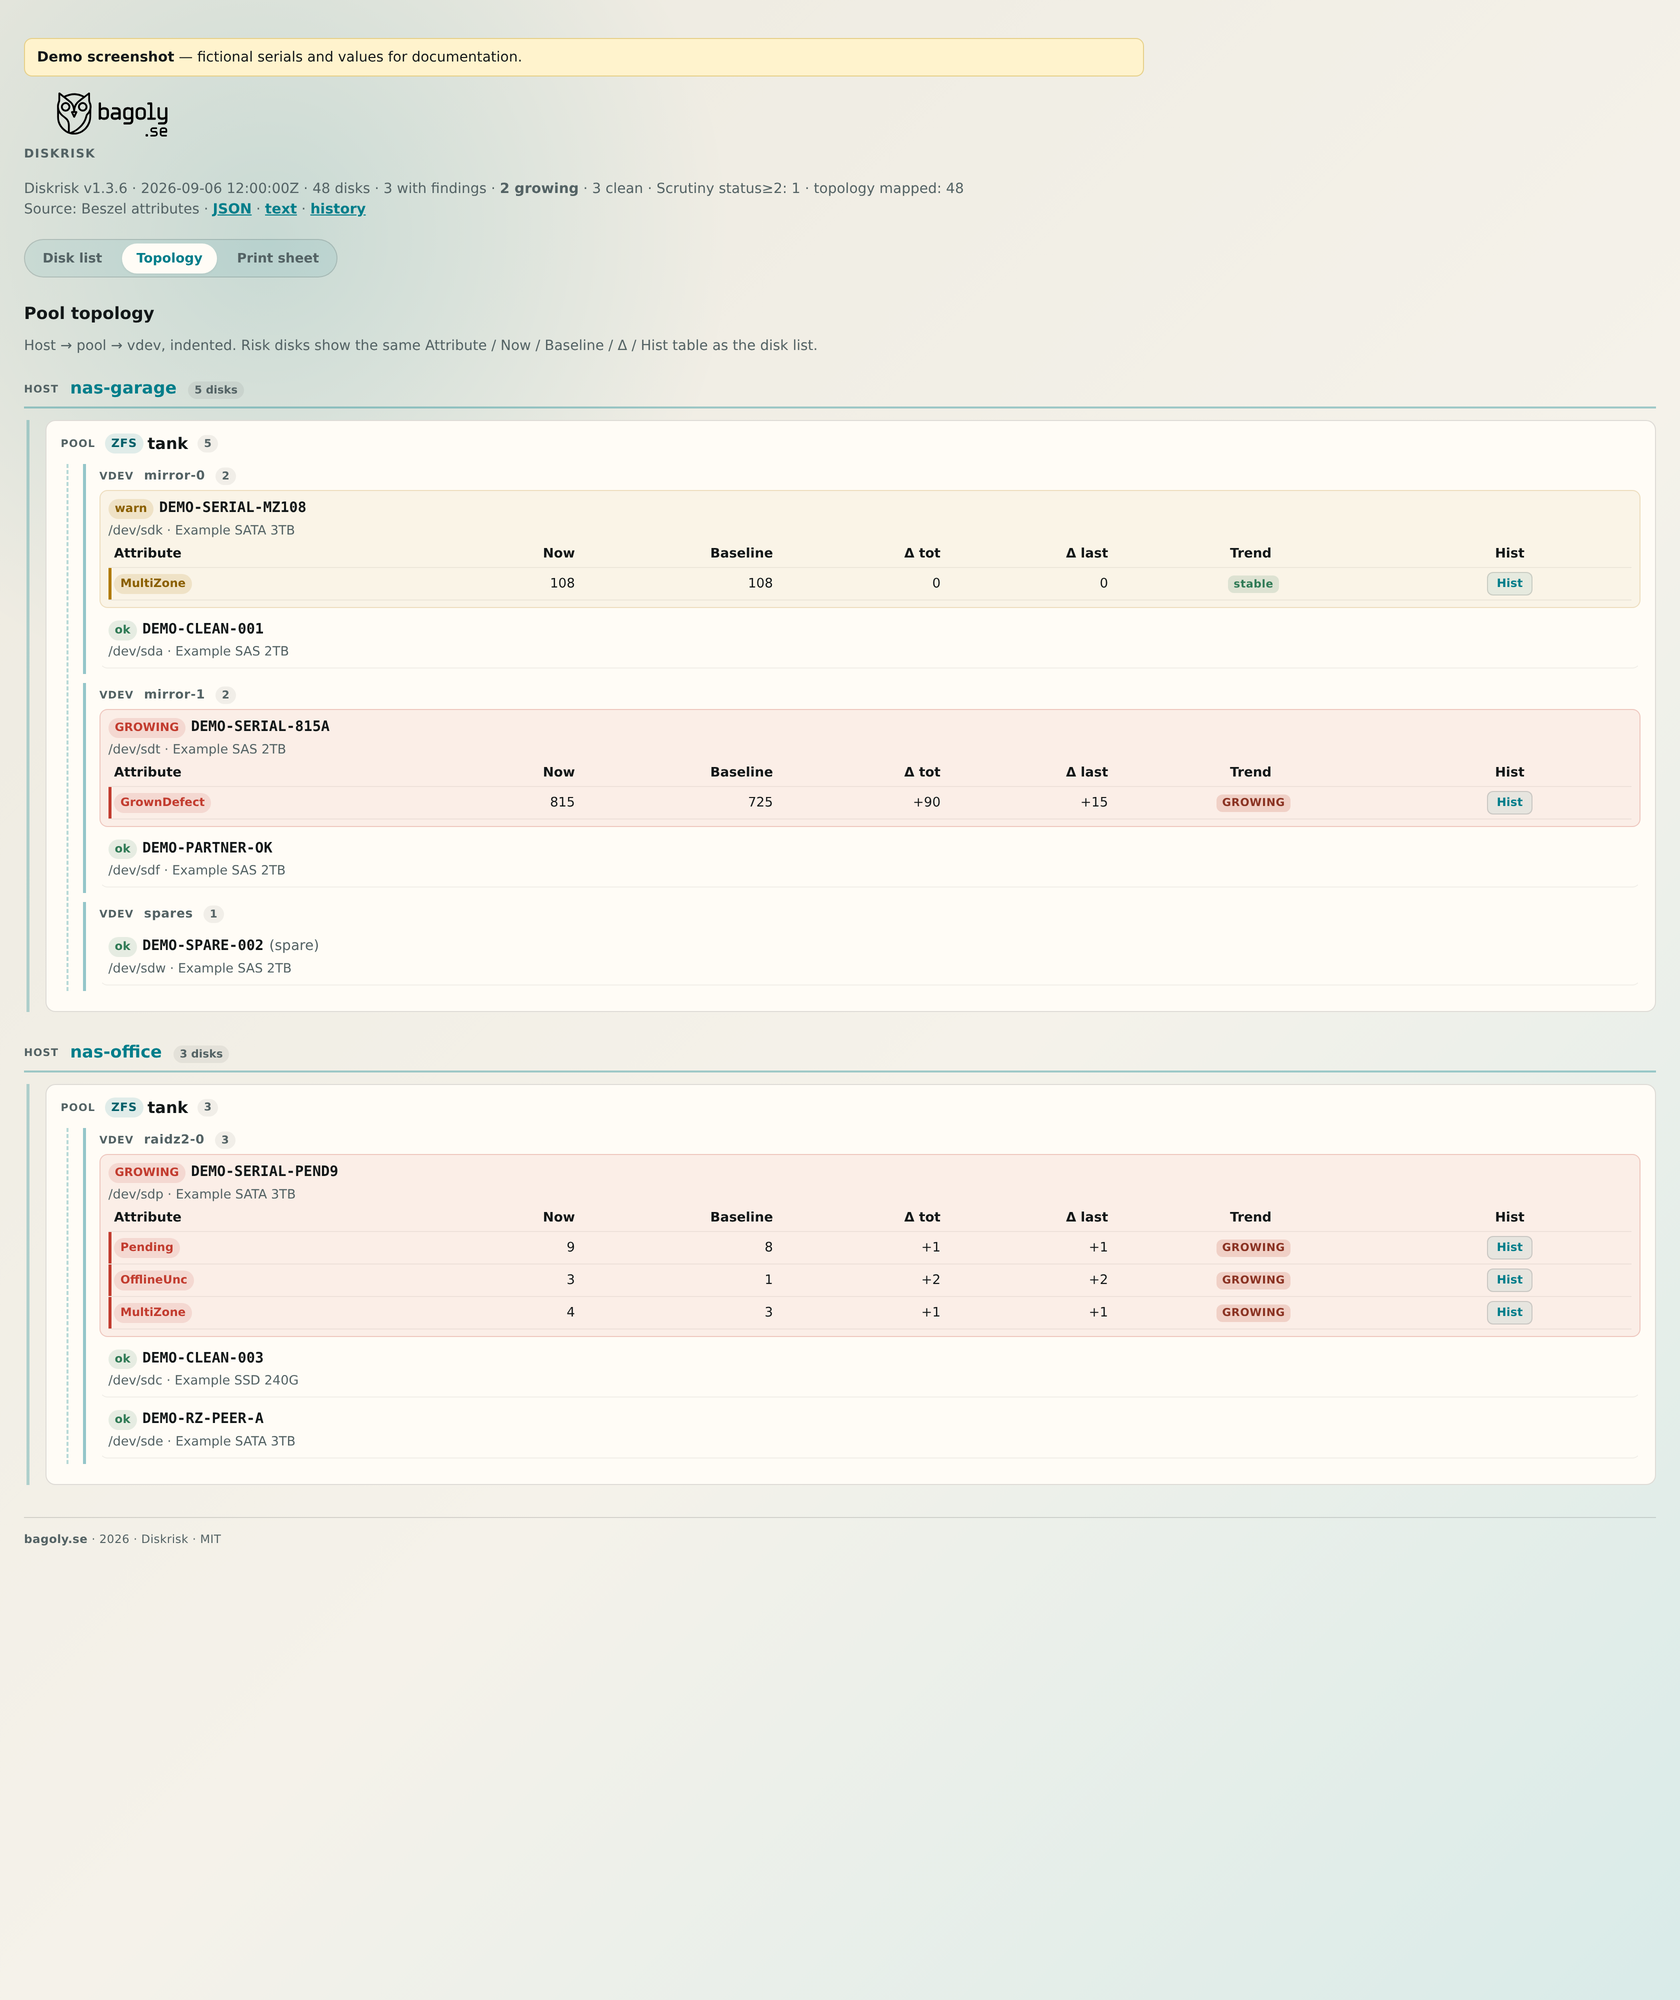
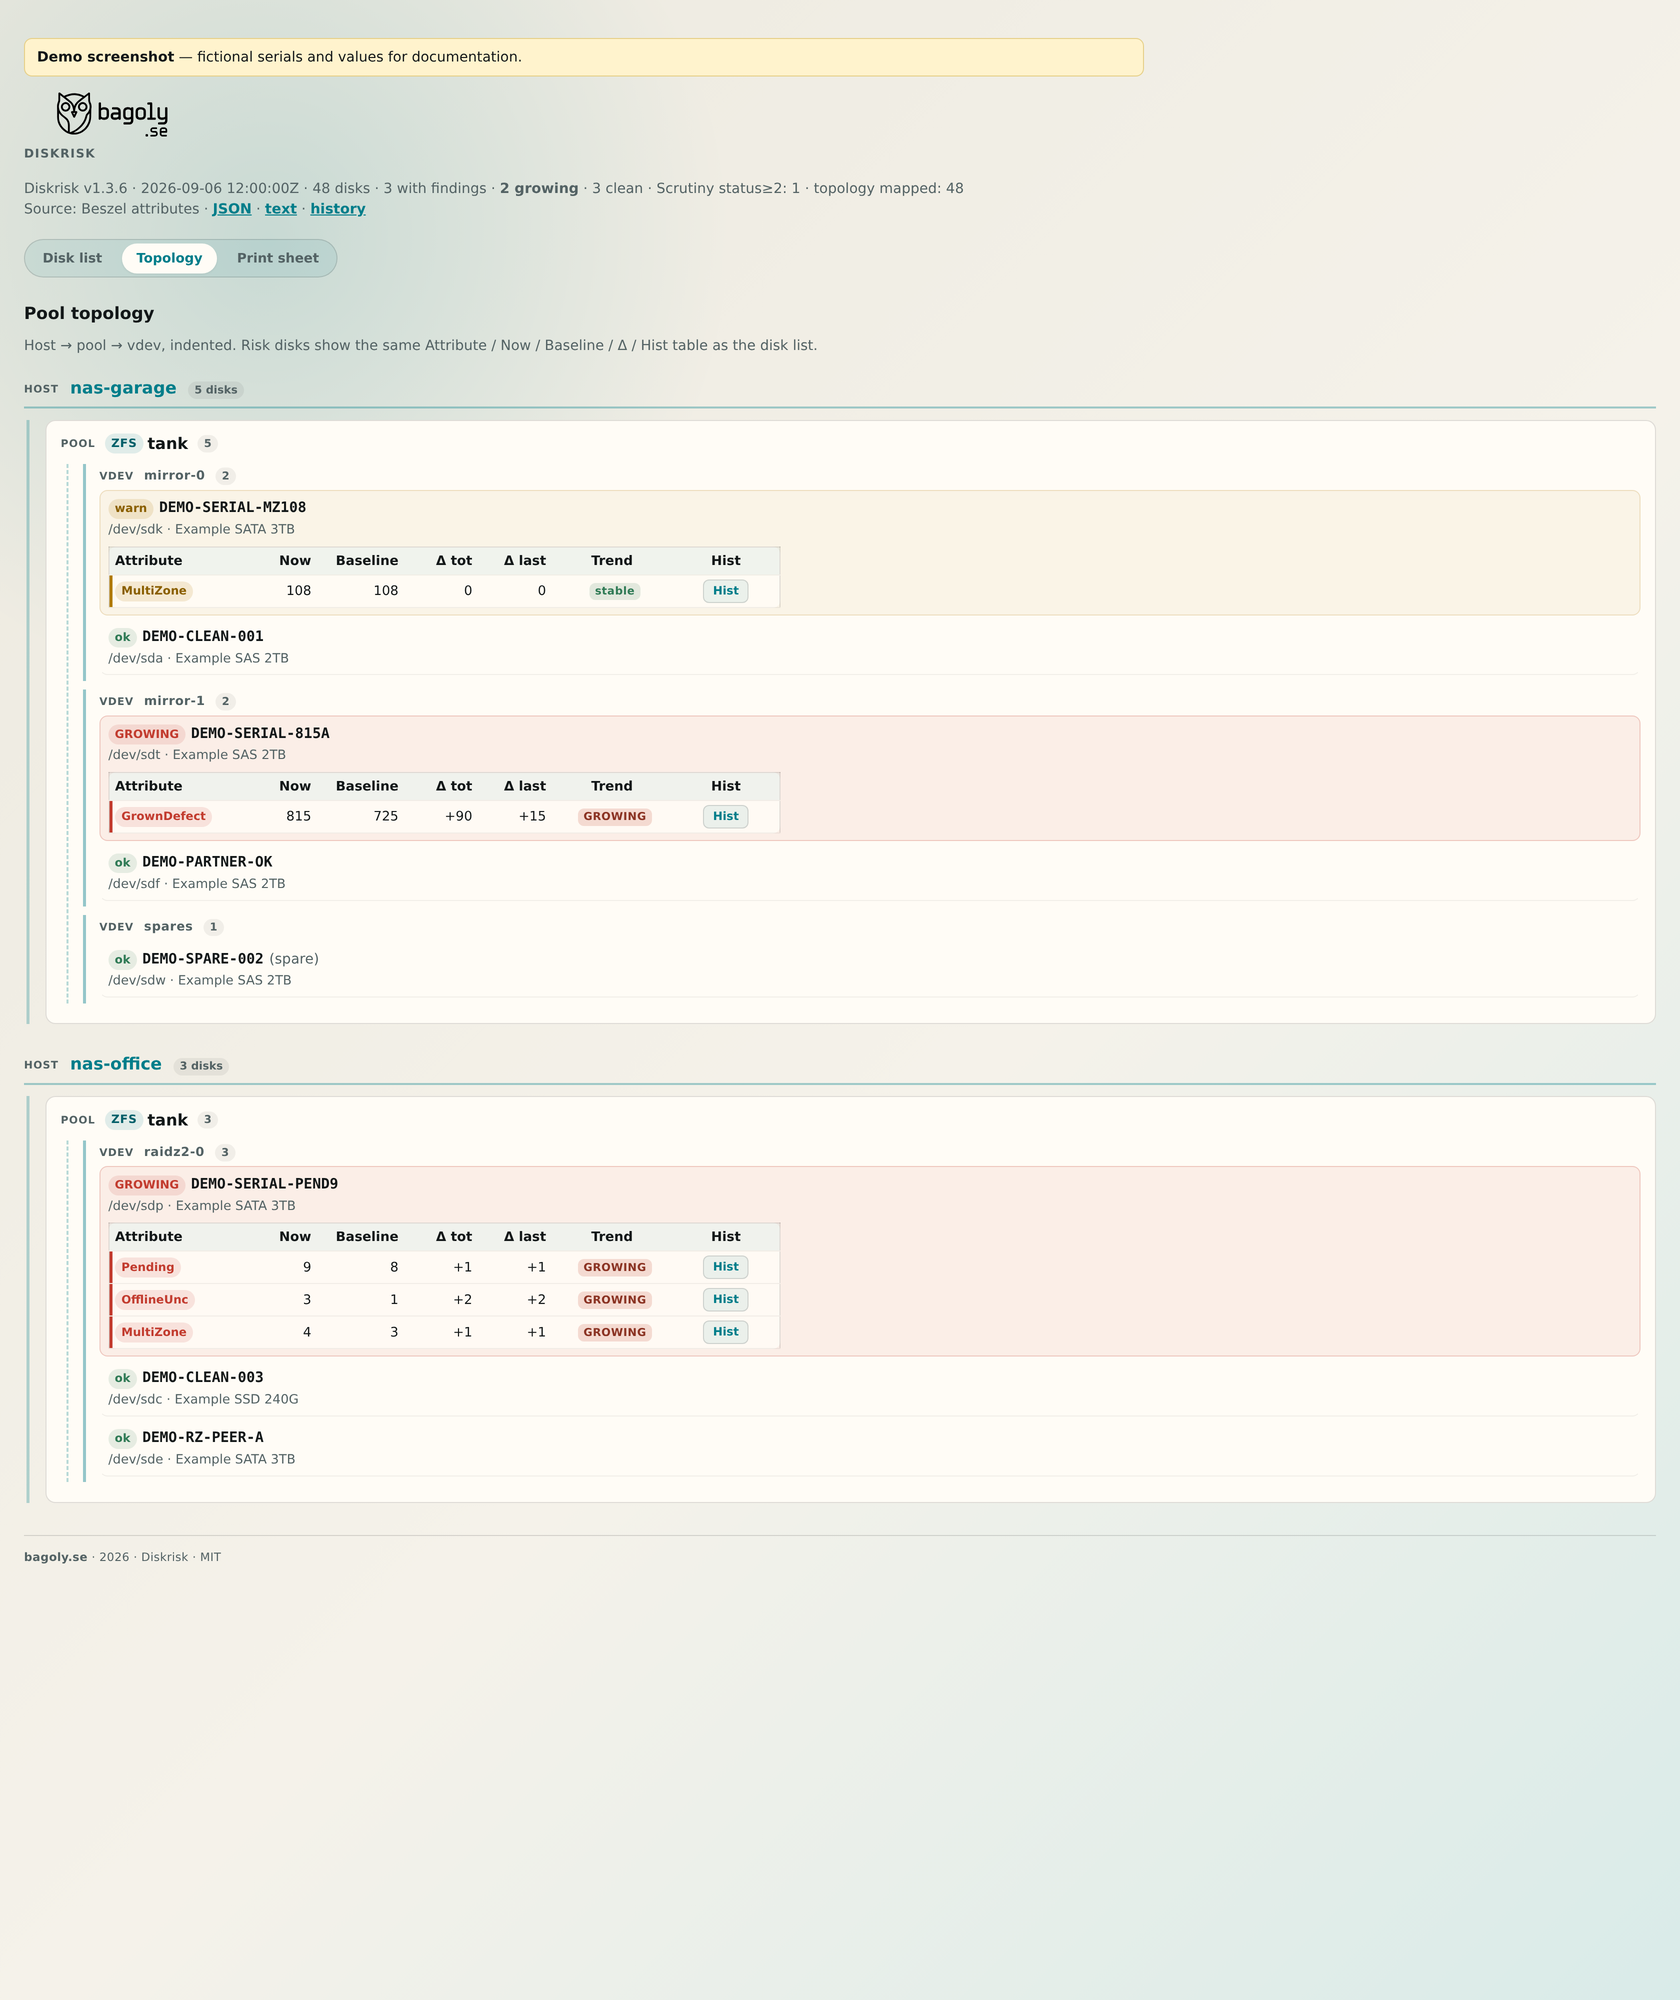
Polish topology demo CSS for nested SMART tables

diff --git a/docs/examples/diskrisk-ui-demo.html b/docs/examples/diskrisk-ui-demo.html
@@ -140,6 +140,12 @@ table.attrs th.attr-name, table.attrs td.attr-name { text-align: left; white-spa
 .topo-disk.growing { background: rgba(194,59,46,.07); border-color: rgba(194,59,46,.22); }
 .topo-disk-main { display: flex; flex-wrap: wrap; align-items: baseline; gap: .35rem; }
 .topo-serial { font-size: .9rem; font-weight: 600; }
+.topo-disk-meta { margin-top: .1rem; }
+.topo-attrs { margin-top: .45rem; max-width: 42rem; }
+.topo-attrs table.attrs {
+  background: rgba(255,252,246,.85); border: 1px solid var(--line); border-radius: 8px;
+}
+.topo-attrs table.attrs th { background: rgba(0,125,138,.06); }
 .topo-findings { margin-top: .3rem; }
 .print-sheet { max-width: 52rem; }
 .print-head h1 { margin: 0 0 .35rem; font-size: 1.25rem; }
